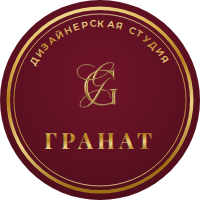
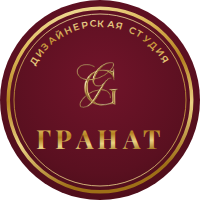
Основной логотип — с вензелем, по выбору владелицы

Changed region(s): [[0.18, 0.63, 0.81, 0.75]]

diff --git a/firmennyj-stil/README.md b/firmennyj-stil/README.md
@@ -66,11 +66,23 @@
 **Файлы собираются скриптом, руками их не править** — правку затрёт
 следующая сборка. Менять размер, цвет или разрядку в `sobrat.mjs`.
 
-**Для 2ГИС берём первый, без вензеля.** Сравните две пробы по 200 точек:
-в варианте с вензелем буква превращается в неразборчивое золотое пятно —
-на её месте всё равно ничего не прочесть, а «ГРАНАТ» она заставляет
-уменьшить. Вариант с вензелем хорош там, где логотип показывают крупно:
-шапка сайта, макеты, бланки, печать.
+### Основной — С ВЕНЗЕЛЕМ. Выбор владелицы, 17.08.2026
+
+Её слова: «самый лучший из файлов второй». Это `granat-logo-2gis-s-venzelem`.
+**Не менять и не «чинить» обратно.**
+
+Ассистент рекомендовал вариант без вензеля — в кружке 200 точек вензель
+читается плохо. Возражение высказано, владелица выбрала с вензелем.
+Решение принято, спорить заново незачем: **знак важнее удобства чтения
+на самом маленьком размере**, и это нормальный выбор для фирменного
+стиля.
+
+Что сделано вместо спора: название в этом варианте поднято со 168 до
+**196** — предел, дальше слово упирается в кольцо. Так вензель остаётся,
+а «ГРАНАТ» читается настолько, насколько это возможно.
+
+Вариант без вензеля не удалён. Он пригодится там, где знак показывают
+совсем мелко: значок вкладки, аватарка в переписке.
 
 ### Шрифты — те же, что на сайте
 

diff --git a/TASKS.md b/TASKS.md
@@ -1311,3 +1311,27 @@ PNG с прозрачностью, 62 КБ. Вторая копия рядом, 
 **Ждём от Гульнары:**
 - [ ] Подключить шрифты на сайте — отдельная работа, правка `base.html`
       плюс выкатка в Amvera. Делать или оставить Georgia — решение её.
+
+### 17 августа, 13:40 — владелица выбрала вариант с вензелем
+
+Её слова: «самый лучший из файлов второй». Это
+`granat-logo-2gis-s-venzelem` — тот, где вензель «G» стоит над названием.
+
+**Рекомендация ассистента была другая** — без вензеля, потому что
+в кружке 2ГИС на 200 точках вензель читается плохо. Возражение
+высказано один раз, владелица выбрала. **Решение принято, к нему
+не возвращаться.** Знак важнее удобства чтения на самом мелком
+размере — это нормальный выбор для фирменного стиля, а не ошибка.
+
+**Сделано:**
+- [x] `af6c7cf` название в варианте с вензелем поднято со 168 до 196 —
+      предел, дальше слово упирается в кольцо. Вензель остаётся,
+      а «ГРАНАТ» читается настолько, насколько возможно
+- [x] `af6c7cf` в `README.md` записано: основной — с вензелем, обратно
+      не «чинить»
+
+Вариант без вензеля не удалён: пригодится для значка вкладки и мелких
+аватарок.
+
+**Ждём от Гульнары:**
+- [ ] Загрузить в 2ГИС, потом в Яндекс Бизнес и на аватарку ВКонтакте.
